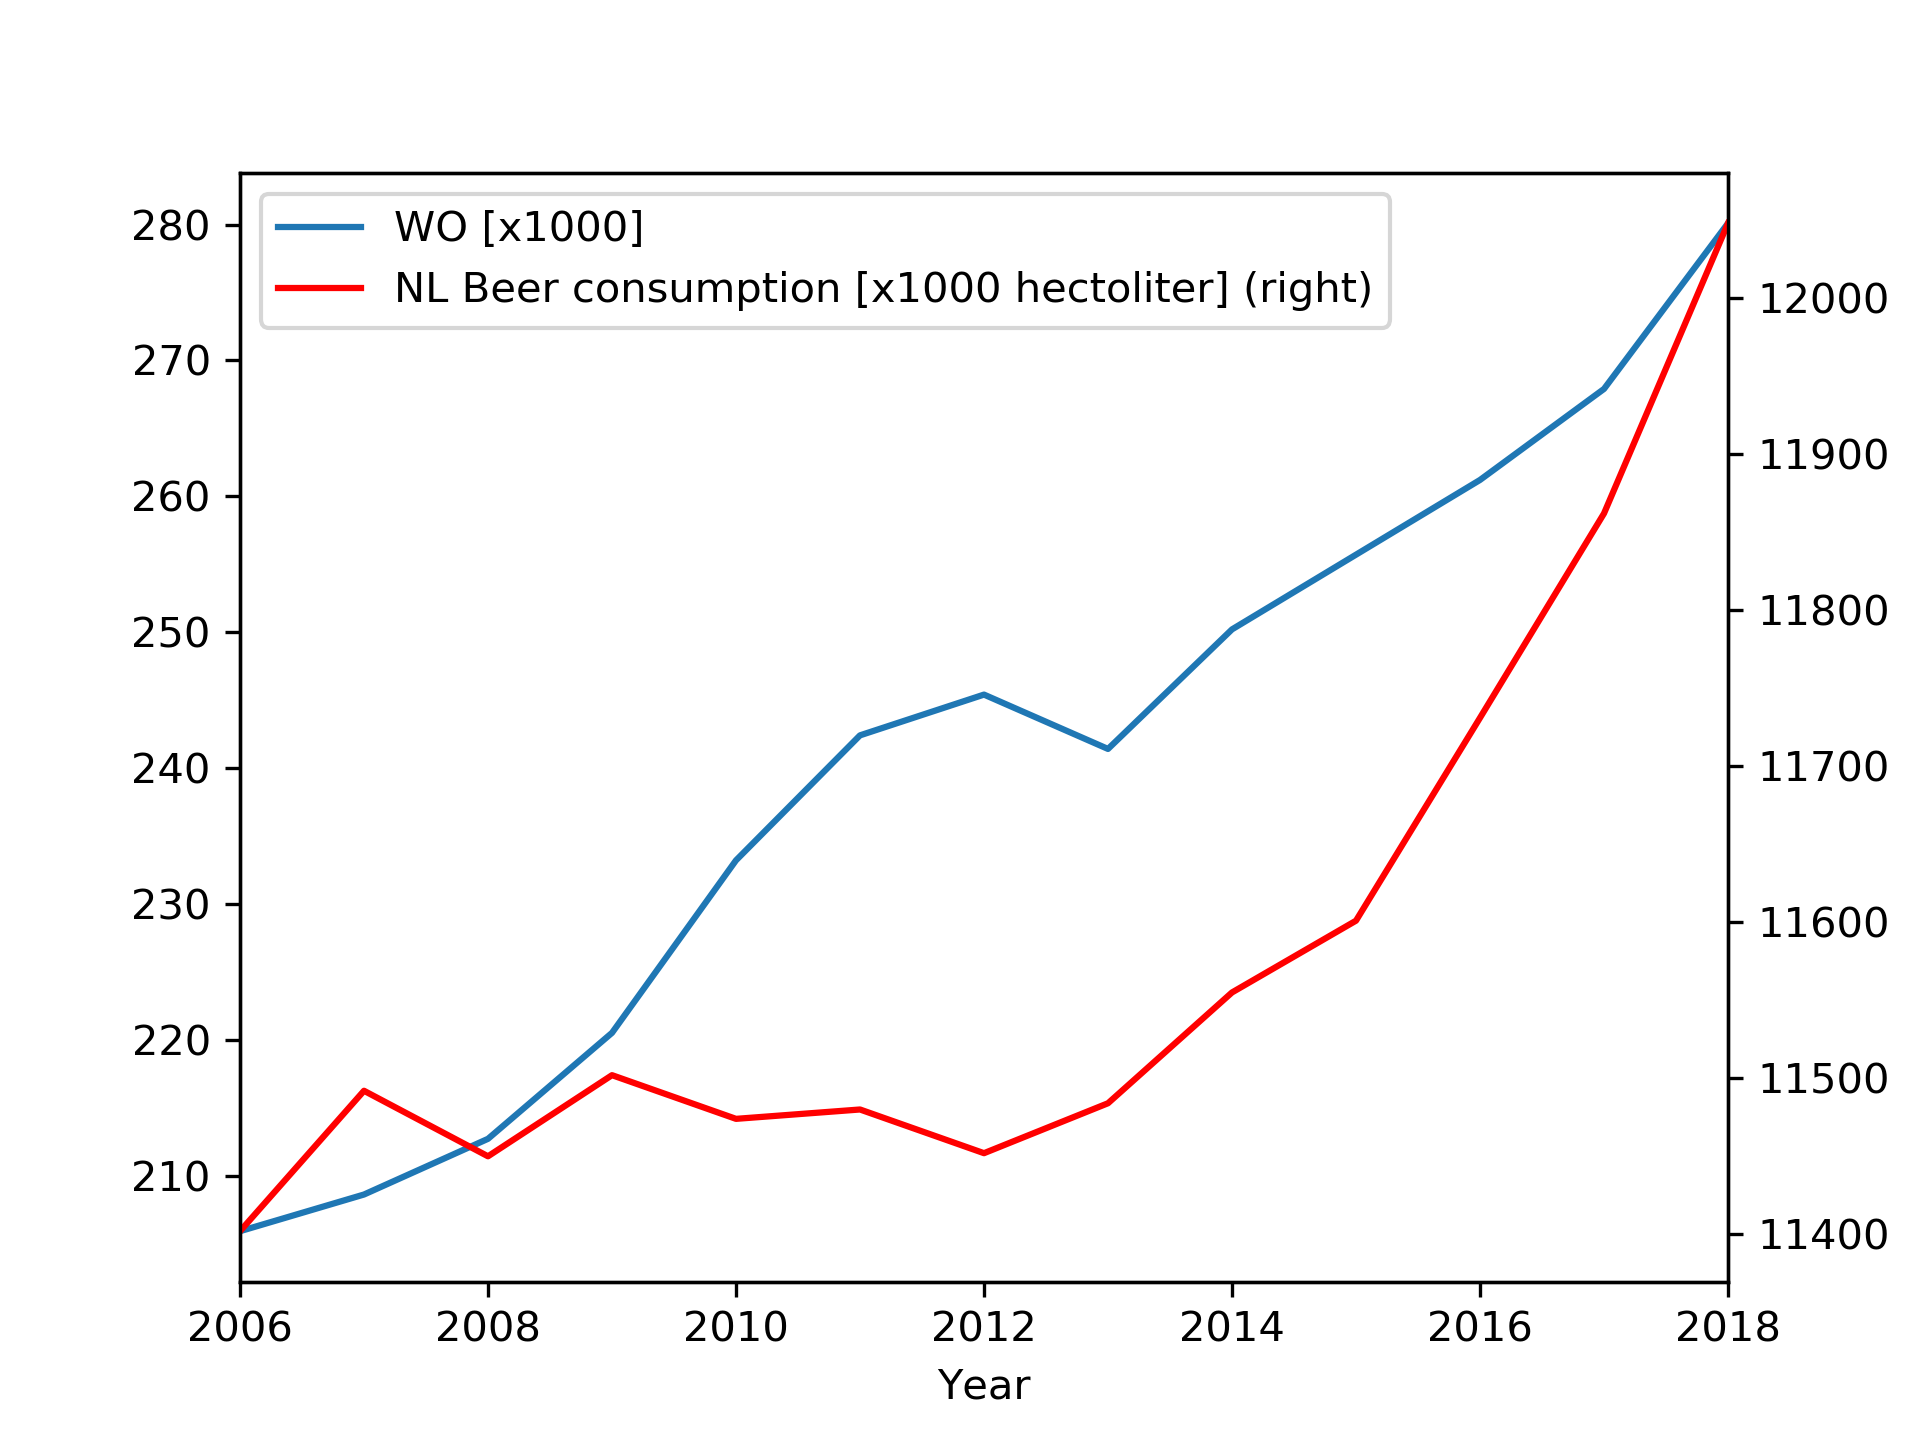
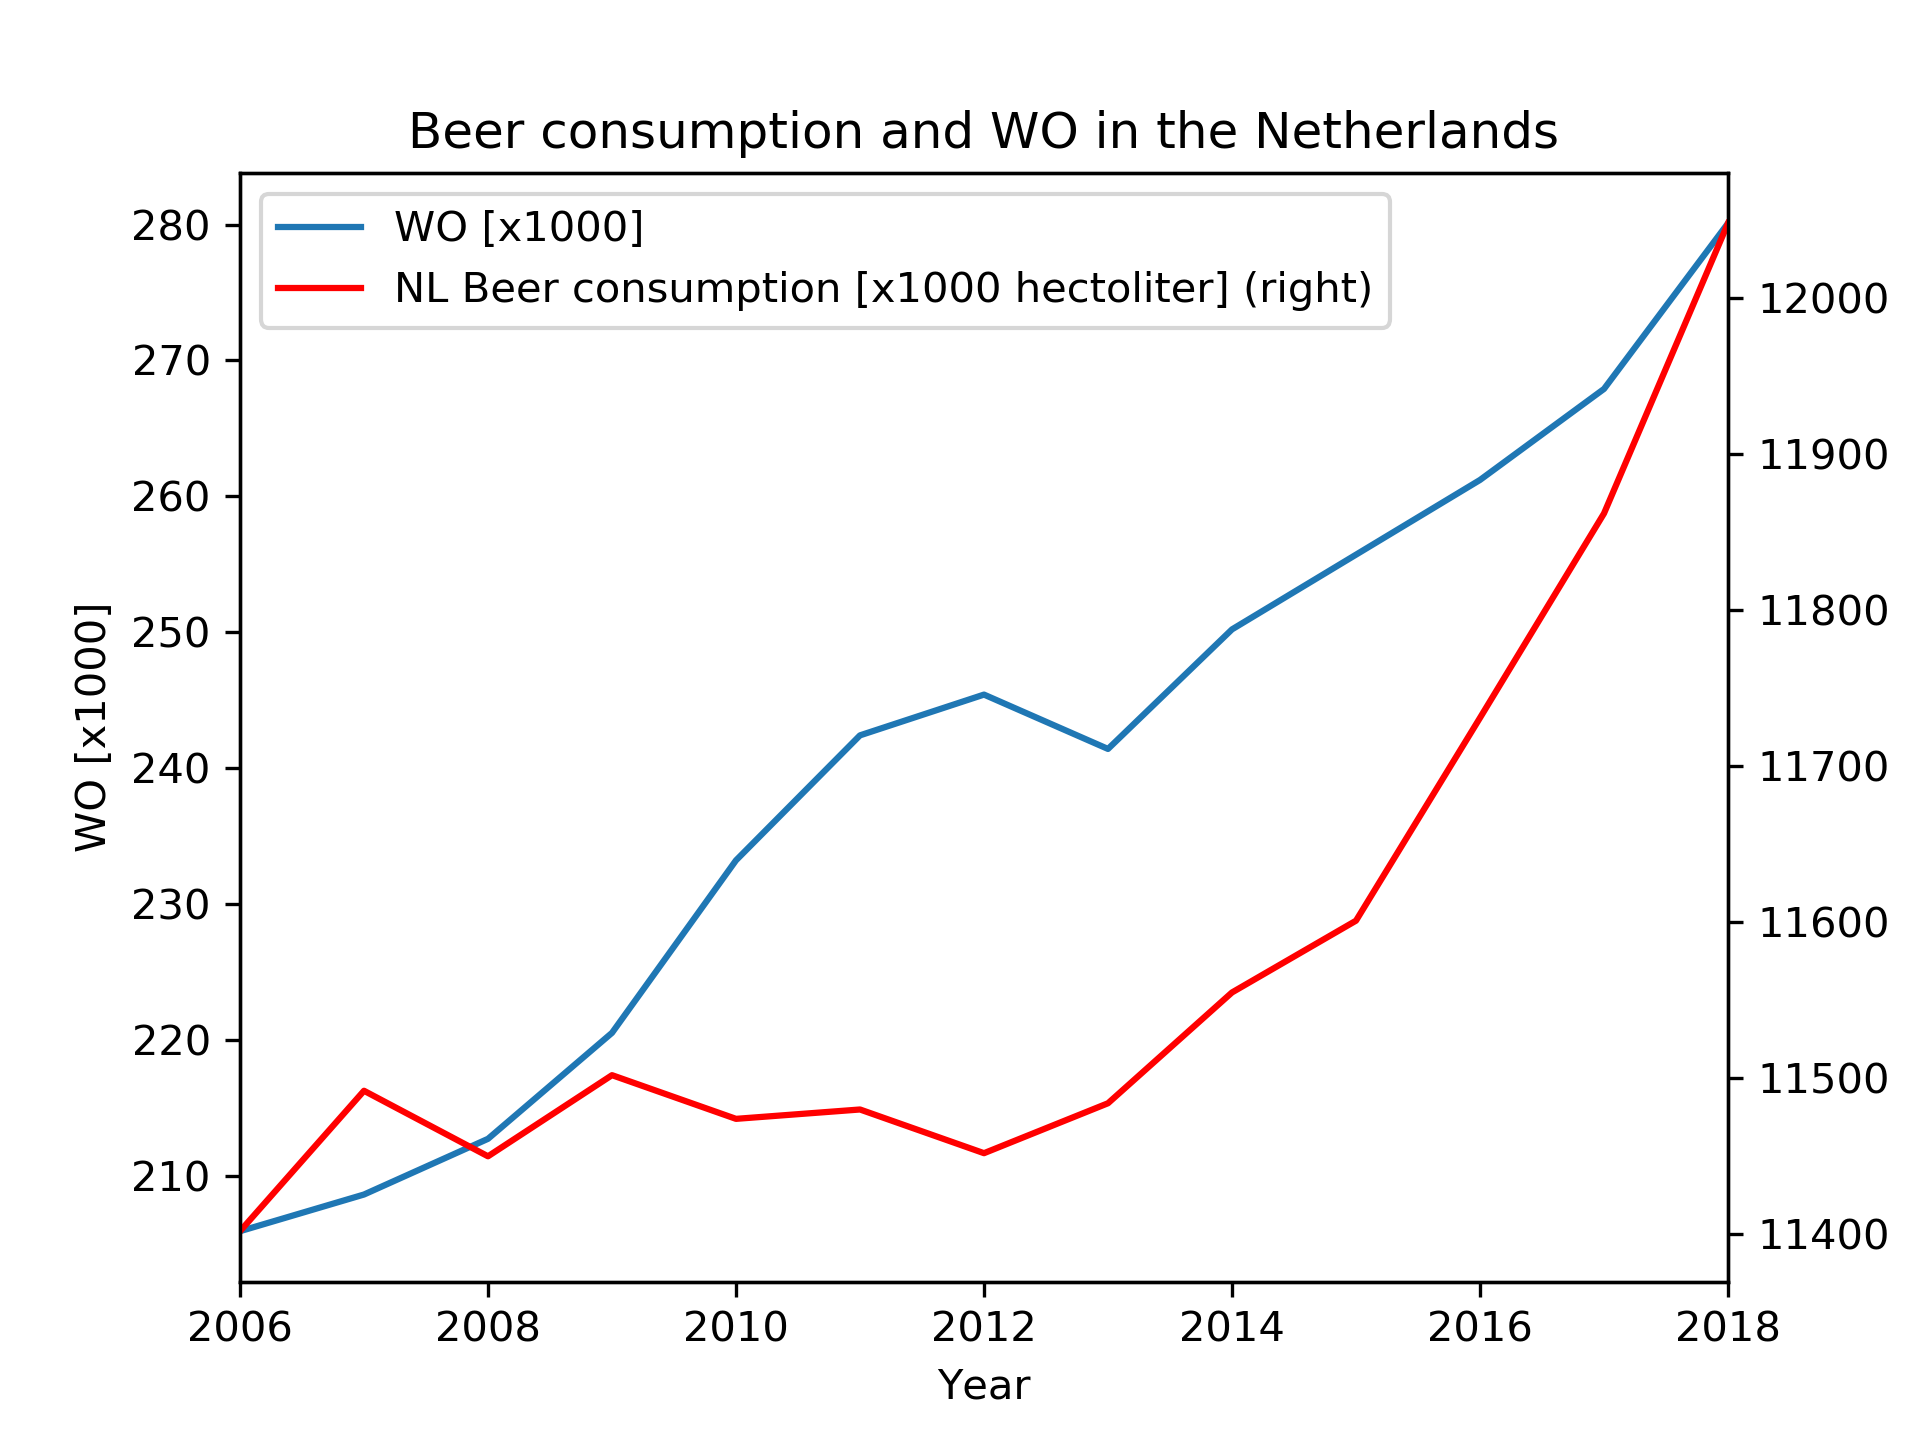
commit

Changed region(s): [[0.2188, 0.0625, 0.8125, 0.125], [0.0312, 0.4062, 0.0625, 0.5938]]

diff --git a/plot.py b/plot.py
@@ -5,9 +5,13 @@ df = pd.read_csv('istherecorrelation.csv', sep=";", decimal=',')
 
 ax = plt.gca()
 
+
 df.plot(kind='line',x='Year',y='WO [x1000]',ax=ax)
-df.plot(kind='line',x='Year',y='NL Beer consumption [x1000 hectoliter]', color='red', secondary_y=True,ax=ax)
-#
+df.plot(kind='line',x='Year',y='NL Beer consumption [x1000 hectoliter]', color='red', secondary_y=True,ax=ax, title="Beer consumption and WO in the Netherlands")
+
+
+ax.set_ylabel("WO [x1000]")
+
 file = "figure.png"
 plt.savefig(file, dpi=300, facecolor='w', edgecolor='w',
         orientation='portrait', papertype=None, format=None,
